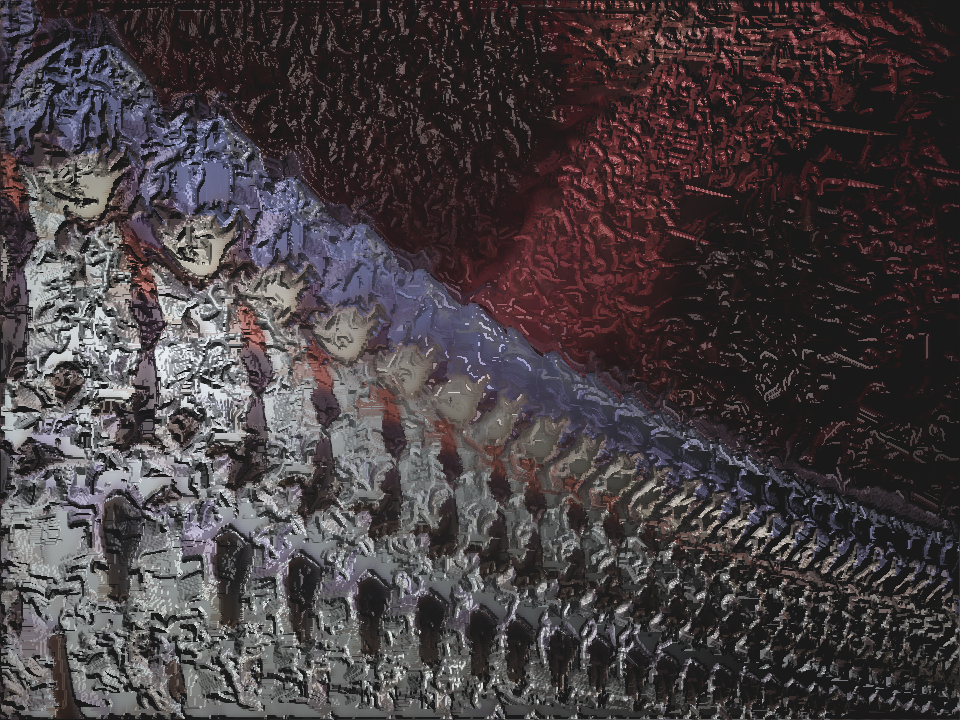
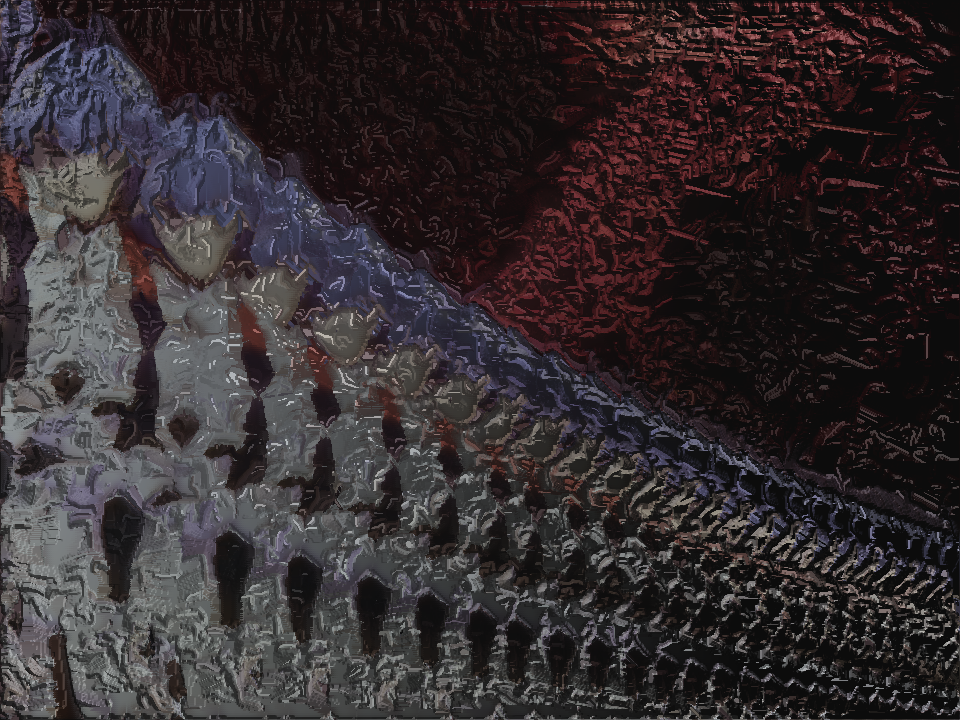
Adding a light class

diff --git a/src/main.cpp b/src/main.cpp
@@ -5,6 +5,7 @@
 
 #include "paint.hpp"
 #include "shader.hpp"
+#include "light.hpp"
 
 using namespace std;
 using namespace Eigen;
@@ -75,9 +76,13 @@ int main(int argc, const char **argv) {
 
     // Shade the output image
     BlinnPhongShader shader = BlinnPhongShader();
-    Eigen::Vector3f view_pos = Eigen::Vector3f(input_image.cols / 2, input_image.rows / 2, 300);
-    Eigen::Vector3f light_pos = Eigen::Vector3f(input_image.cols / 2, input_image.rows / 2, 300);
-    RGBImage *shaded_image = paint.apply_lighting(output_image, output_height_map, &shader, view_pos, light_pos);
+    Light light1 = Light(Vector3f(input_image.cols / 4, input_image.rows / 4, 500), Vector3f(1.0f, 1.0f, 1.0f));
+    Light light2 = Light(Vector3f(input_image.cols / 4, 3 * input_image.rows / 4, 500), Vector3f(1.0f, 1.0f, 1.0f));
+    Light light3 = Light(Vector3f(3 * input_image.cols / 4, input_image.rows / 4, 500), Vector3f(1.0f, 1.0f, 1.0f));
+    Light light4 = Light(Vector3f(3 * input_image.cols / 4, 3 * input_image.rows / 4, 500), Vector3f(1.0f, 1.0f, 1.0f));
+    std::vector<Light> lights = {light1, light2};
+    Eigen::Vector3f view_pos = Eigen::Vector3f(input_image.cols / 2, input_image.rows / 2, 1000);
+    RGBImage *shaded_image = paint.apply_lighting(output_image, output_height_map, &shader, view_pos, lights);
 
     // Save the shaded image
     cv::Mat *cv_output_shaded_image = shaded_image->to_cv_mat();
@@ -95,19 +100,19 @@ int main(int argc, const char **argv) {
     cout << "Height map saved to: " << height_path + height_file << std::endl;
 
     #ifdef ANIMATE
-        view_pos = Eigen::Vector3f(input_image.cols / 2, input_image.rows / 2, 5);
-        for (int i = 0; i < input_image.cols; i++) {
-            light_pos = Eigen::Vector3f(i, 0, 300);
-            shaded_image = paint.apply_lighting(output_image, output_height_map, &shader, view_pos, light_pos);
-            cv_output_shaded_image = shaded_image->to_cv_mat();
+        // view_pos = Eigen::Vector3f(input_image.cols / 2, input_image.rows / 2, 5);
+        // for (int i = 0; i < input_image.cols; i++) {
+        //     light_pos = Eigen::Vector3f(i, input_image.rows / 2, 500);
+        //     shaded_image = paint.apply_lighting(output_image, output_height_map, &shader, view_pos, light_pos);
+        //     cv_output_shaded_image = shaded_image->to_cv_mat();
             
-            cv::imshow("shaded_image", *cv_output_shaded_image);
+        //     cv::imshow("shaded_image", *cv_output_shaded_image);
 
-            cv::waitKey(1);
+        //     cv::waitKey(1);
 
-            delete shaded_image;
-            delete cv_output_shaded_image;
-        }
+        //     delete shaded_image;
+        //     delete cv_output_shaded_image;
+        // }
     #endif
 
     // Free memory

diff --git a/src/shader.cpp b/src/shader.cpp
@@ -1,12 +1,11 @@
 #include "shader.hpp"
 
-Eigen::Vector3f BlinnPhongShader::shade(Eigen::Vector3f colour, Eigen::Vector3f pos, Eigen::Vector3f light_pos, Eigen::Vector3f view_pos, Eigen::Vector3f normal) {
+Eigen::Vector3f BlinnPhongShader::shade(Eigen::Vector3f colour, Eigen::Vector3f pos, std::vector<Light> lights, Eigen::Vector3f view_pos, Eigen::Vector3f normal) {
     float ka = 0.1f;
     float kd = 0.6f;
     float ks = 0.3f;
 
     Eigen::Vector3f amb_intensity = Eigen::Vector3f(1.0f, 1.0f, 1.0f);
-    Eigen::Vector3f intensity = Eigen::Vector3f(1.0f, 1.0f, 1.0f);
 
     colour /= 255.0f;
 
@@ -20,19 +19,22 @@ Eigen::Vector3f BlinnPhongShader::shade(Eigen::Vector3f colour, Eigen::Vector3f 
     // View direction
     v = (view_pos - pos).normalized();
 
-    // Light direction 
-    l = (light_pos - pos).normalized();
+    for (Light light : lights) {
+        // Light direction 
+        l = (light.get_position() - pos).normalized();
 
-    // Half-vector 
-    h = (v + l).normalized();
+        // Half-vector 
+        h = (v + l).normalized();
 
-    // Diffuse lighting. Fall-off not considered
-    float N_dot_l = std::max(0.0f, normal.dot(l));
-    output_colour += kd * colour.cwiseProduct(intensity) * N_dot_l;
+        // Diffuse lighting. Fall-off not considered
+        float N_dot_l = std::max(0.0f, normal.dot(l));
+        output_colour += kd * colour.cwiseProduct(light.get_intensity()) * N_dot_l;
 
-    // Specular lighting. Fall-off not considered
-    float N_dot_h = std::max(0.0f, normal.dot(h));
-    output_colour += ks * intensity * std::pow(N_dot_h, this->p);
+        // Specular lighting. Fall-off not considered
+        float N_dot_h = std::max(0.0f, normal.dot(h));
+        output_colour += ks * light.get_intensity() * std::pow(N_dot_h, this->p);
+    }
+    output_colour /= lights.size();
 
     // Clamp the colour between [0, 1]
     output_colour.cwiseMin(1.0f).cwiseMax(0.0f);

diff --git a/src/paint.cpp b/src/paint.cpp
@@ -75,7 +75,7 @@ std::tuple<RGBImage*, GrayImage*> Paint::paint() {
     return std::tuple<RGBImage*, GrayImage*>(canvas, height_map);
 }
 
-RGBImage *Paint::apply_lighting(RGBImage *image, GrayImage *height_map, Shader *shader, Eigen::Vector3f view_pos, Eigen::Vector3f light_pos) {
+RGBImage *Paint::apply_lighting(RGBImage *image, GrayImage *height_map, Shader *shader, Eigen::Vector3f view_pos, std::vector<Light> lights) {
     // Sobel kernels used to compute image gradient
     HorizontalSobelKernel sobel_x = HorizontalSobelKernel::get_instance();
     VerticalSobelKernel sobel_y = VerticalSobelKernel::get_instance();
@@ -89,7 +89,7 @@ RGBImage *Paint::apply_lighting(RGBImage *image, GrayImage *height_map, Shader *
     for (int y = 0; y < this->height; y++) {
         for (int x = 0; x < this->width; x++) {
             pos = Eigen::Vector3f(x, y, 0);
-            new_colour = shader->shade(image->get_pixel(x, y), pos, light_pos, view_pos, normals->get_pixel(x, y));
+            new_colour = shader->shade(image->get_pixel(x, y), pos, lights, view_pos, normals->get_pixel(x, y));
             ImageUtil::set_pixel(shaded_image, x, y, new_colour);
         }
     }

diff --git a/include/shader.hpp b/include/shader.hpp
@@ -2,11 +2,13 @@
 
 #include <Eigen/Eigen>
 
+#include "light.hpp"
+
 using namespace Eigen;
 
 class Shader {
     public:
-        virtual Eigen::Vector3f shade(Eigen::Vector3f colour, Eigen::Vector3f pos, Eigen::Vector3f light_pos, Eigen::Vector3f view_pos, Eigen::Vector3f normal) = 0;
+        virtual Eigen::Vector3f shade(Eigen::Vector3f colour, Eigen::Vector3f pos, std::vector<Light> lights, Eigen::Vector3f view_pos, Eigen::Vector3f normal) = 0;
 
         virtual ~Shader() {}
 };
@@ -19,5 +21,5 @@ class BlinnPhongShader : public Shader {
     public:
         BlinnPhongShader() = default;
 
-        Eigen::Vector3f shade(Eigen::Vector3f colour, Eigen::Vector3f pos, Eigen::Vector3f light_pos, Eigen::Vector3f view_pos, Eigen::Vector3f normal);
+        Eigen::Vector3f shade(Eigen::Vector3f colour, Eigen::Vector3f pos, std::vector<Light> lights, Eigen::Vector3f view_pos, Eigen::Vector3f normal);
 };

diff --git a/include/light.hpp b/include/light.hpp
@@ -1,0 +1,25 @@
+#pragma once 
+
+#include <Eigen/Eigen>
+
+using namespace Eigen;
+
+class Light {
+    private:
+        Vector3f position;
+        Vector3f intensity;
+
+    public:
+        Light(Vector3f position, Vector3f intensity) {
+            this->position = position;
+            this->intensity = intensity;
+        }
+
+        inline Vector3f get_position() {
+            return this->position;
+        }
+
+        inline Vector3f get_intensity() {
+            return this->intensity;
+        }
+};

diff --git a/include/paint.hpp b/include/paint.hpp
@@ -5,6 +5,7 @@
 #include "image.hpp"
 #include "stroke.hpp"
 #include "shader.hpp"
+#include "light.hpp"
 
 using namespace Eigen;
 
@@ -79,5 +80,5 @@ class Paint {
 
         std::tuple<RGBImage*, GrayImage*> paint();
 
-        RGBImage *apply_lighting(RGBImage *image, GrayImage *height_map, Shader *shader, Eigen::Vector3f view_pos, Eigen::Vector3f light_pos);
+        RGBImage *apply_lighting(RGBImage *image, GrayImage *height_map, Shader *shader, Eigen::Vector3f view_pos, std::vector<Light> lights);
 };

diff --git a/include/image.hpp b/include/image.hpp
@@ -7,8 +7,8 @@
 
 using namespace Eigen;
 
-typedef Eigen::Matrix<Eigen::Vector3f, Eigen::Dynamic, Eigen::Dynamic> RGBMatrix;
-typedef Eigen::Matrix<float, Eigen::Dynamic, Eigen::Dynamic> GrayMatrix;
+typedef Matrix<Eigen::Vector3f, Eigen::Dynamic, Eigen::Dynamic> RGBMatrix;
+typedef Matrix<float, Eigen::Dynamic, Eigen::Dynamic> GrayMatrix;
 
 namespace ImageUtil {
     float get_pixel(GrayMatrix *image, int x, int y);
